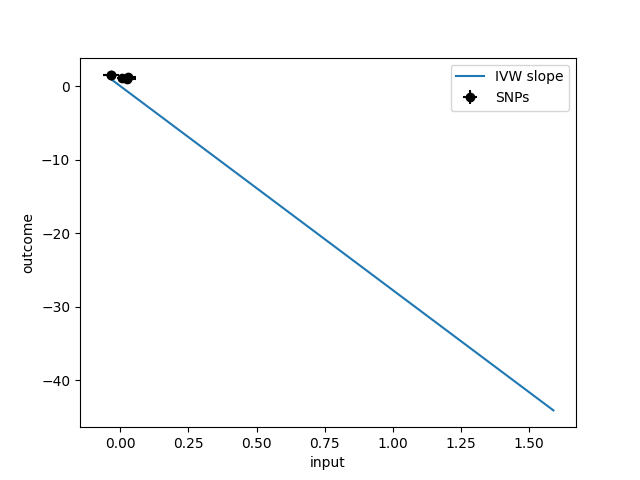
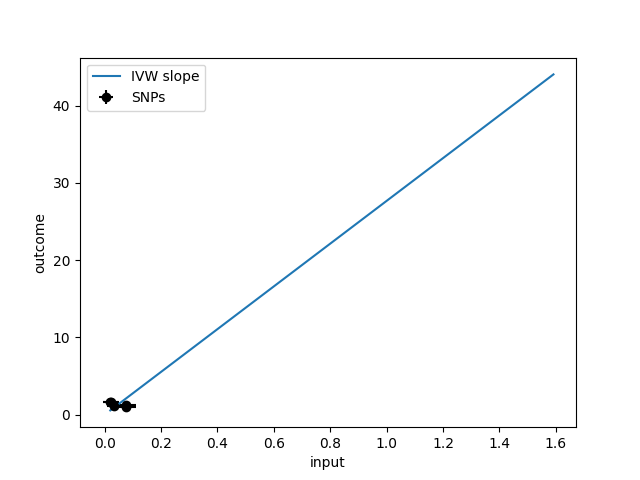
Doing Il2B instead of HLA

diff --git a/mr_t1d.py b/mr_t1d.py
@@ -13,10 +13,15 @@ from scipy import stats
 import matplotlib.pyplot as plt
 import numpy as np
 
-GWASid = "ebi-a-GCST004448"
+
+# https://opengwas.io/datasets/ - Interleuken-2 receptor - openGWASID 
+GWASid = "prot-a-1517" 
+
+# Outcome ID
 OUTCOME_ID = "ebi-a-GCST90014023"
 
-HLA_SNPs = ["rs2187668", "rs9273368", "rs9273363", "rs9272346", "rs2647044"]
+# Exposure ID - https://www.ebi.ac.uk/gwas/ - "pQTL" 
+HLA_SNPs = ["rs12722495-A", "rs61839660-C", "rs12722496-G"]
 
 
 # x = []; y = []
@@ -53,6 +58,7 @@ def mr_analysis(variants = [], snps=HLA_SNPs):
         print(exposure_raw)
         if not exposure_raw:
             print("No significant SNPs found via tophits. Trying specific variant...")
+            return
             exposure_raw = gwas.associations(variant=variants, id=[GWASid])
         
         if not exposure_raw:
@@ -175,3 +181,6 @@ if __name__ == "__main__":
     gwas_id_to_check = ["rs2187668", "rs9273368", "rs9273363", "rs9272346", "rs2647044"]
     mr_analysis(gwas_id_to_check, HLA_SNPs)
     print("Done")
+
+
+

diff --git a/find_prot.py b/find_prot.py
@@ -1,0 +1,34 @@
+
+# DQA1, HLA-DQ
+# for each of these, try to grab gwas.api_query()
+# if we return anything from gwas.api_query(f"gwasinfo"):
+# if trait and sample_size: 
+# trait, sample_size
+
+def protein():
+    pass
+
+if __name__ == "__main__":
+    protein()
+
+import ieugwaspy as gwas
+import requests
+import os
+import json
+
+creds = json.load(open(".ieugwaspy.json"))
+token = creds.get("jwt")
+
+headers = {"Authorization", token}
+
+genes = ["DQA1", "HLA-DQ", "IL2RA"]
+for gene in genes:
+    try:
+        result = requests.get(
+        f"https://api.opengwas.io/api/gwas?q={gene}",
+        headers=headers
+    )
+        if result and result.get("trait") and result.get("sample_size"):
+            print(f"{gene}: {result['trait']}, n={result['sample_size']}")
+    except Exception as e:
+        print(f"{gene}: query failed — {e}")

diff --git a/output5.md b/output5.md
@@ -1,0 +1,33 @@
+Found 5 genetic instruments.
+
+----- MR Results (IVW via WLS) -----
+/Users/kavimongia-gasper/neel_research_index/venv/lib/python3.9/site-packages/statsmodels/stats/stattools.py:74: ValueWarning: omni_normtest is not valid with less than 8 observations; 5 samples were given.
+  warn("omni_normtest is not valid with less than 8 observations; %i "
+                                 WLS Regression Results                                
+=======================================================================================
+Dep. Variable:               beta_out   R-squared (uncentered):                   0.631
+Model:                            WLS   Adj. R-squared (uncentered):              0.538
+Method:                 Least Squares   F-statistic:                              6.826
+Date:                Sun, 10 May 2026   Prob (F-statistic):                      0.0593
+Time:                        16:49:33   Log-Likelihood:                         -7.2016
+No. Observations:                   5   AIC:                                      16.40
+Df Residuals:                       4   BIC:                                      16.01
+Df Model:                           1                                                  
+Covariance Type:            nonrobust                                                  
+==============================================================================
+                 coef    std err          t      P>|t|      [0.025      0.975]
+------------------------------------------------------------------------------
+beta_exp      27.6771     10.593      2.613      0.059      -1.734      57.088
+==============================================================================
+Omnibus:                          nan   Durbin-Watson:                   1.821
+Prob(Omnibus):                    nan   Jarque-Bera (JB):                0.507
+Skew:                          -0.067   Prob(JB):                        0.776
+Kurtosis:                       1.446   Cond. No.                         1.00
+==============================================================================
+
+Notes:
+[1] R² is computed without centering (uncentered) since the model does not contain a constant.
+[2] Standard Errors assume that the covariance matrix of the errors is correctly specified.
+/Users/kavimongia-gasper/neel_research_index/mr_t1d.py:136: FutureWarning: Series.__getitem__ treating keys as positions is deprecated. In a future version, integer keys will always be treated as labels (consistent with DataFrame behavior). To access a value by position, use `ser.iloc[pos]`
+  plot_mr(x_line, wls.params[0] * x_line, merged)
+Done

diff --git a/todo.md b/todo.md
@@ -1,0 +1,30 @@
+**For Neel to research over the next few weeks**
+
+Write-up:
+- How have past researchers shown that HLA-DQ1 is a factor for risk of T1D?
+- Is HLA-DQ1 this a good candidate for an MR study?
+    - Too complex, lots of confounding results.
+    - Protein could have a lot of different exposures. 
+        - rs9272346
+- Data sources we can write out. Look into the Sun BB IL2B study. 
+- Expected outcomes. Do we already know that IL2B might increase risk for t1D? If we do, we probably expect our result to show this. 
+    - As evidence for your expectations, you should use the DAG.
+
+- Create a final hypothesis. ("Increase in IL2B proteins increases risk for T1D"... "Increase in IL2B proteins decrease/increases X/Y which, in turn, increases risk for T1D").
+
+How to run function:
+
+- get API key:
+    - https://api.opengwas.io/
+    - Sign in with github or microsoft
+    - Create and copy your token
+    - Create file called .ieugwaspy.json
+    - In that file paste in this:
+        - {"base_url": "https://api.opengwas.io/api/", "jwt": [INSERT TOKEN]}
+
+. venv/bin/activate
+python mr_t1d.py
+
+Code:
+- Add more SNPs from the dataset we found in mr_t1d.py
+
